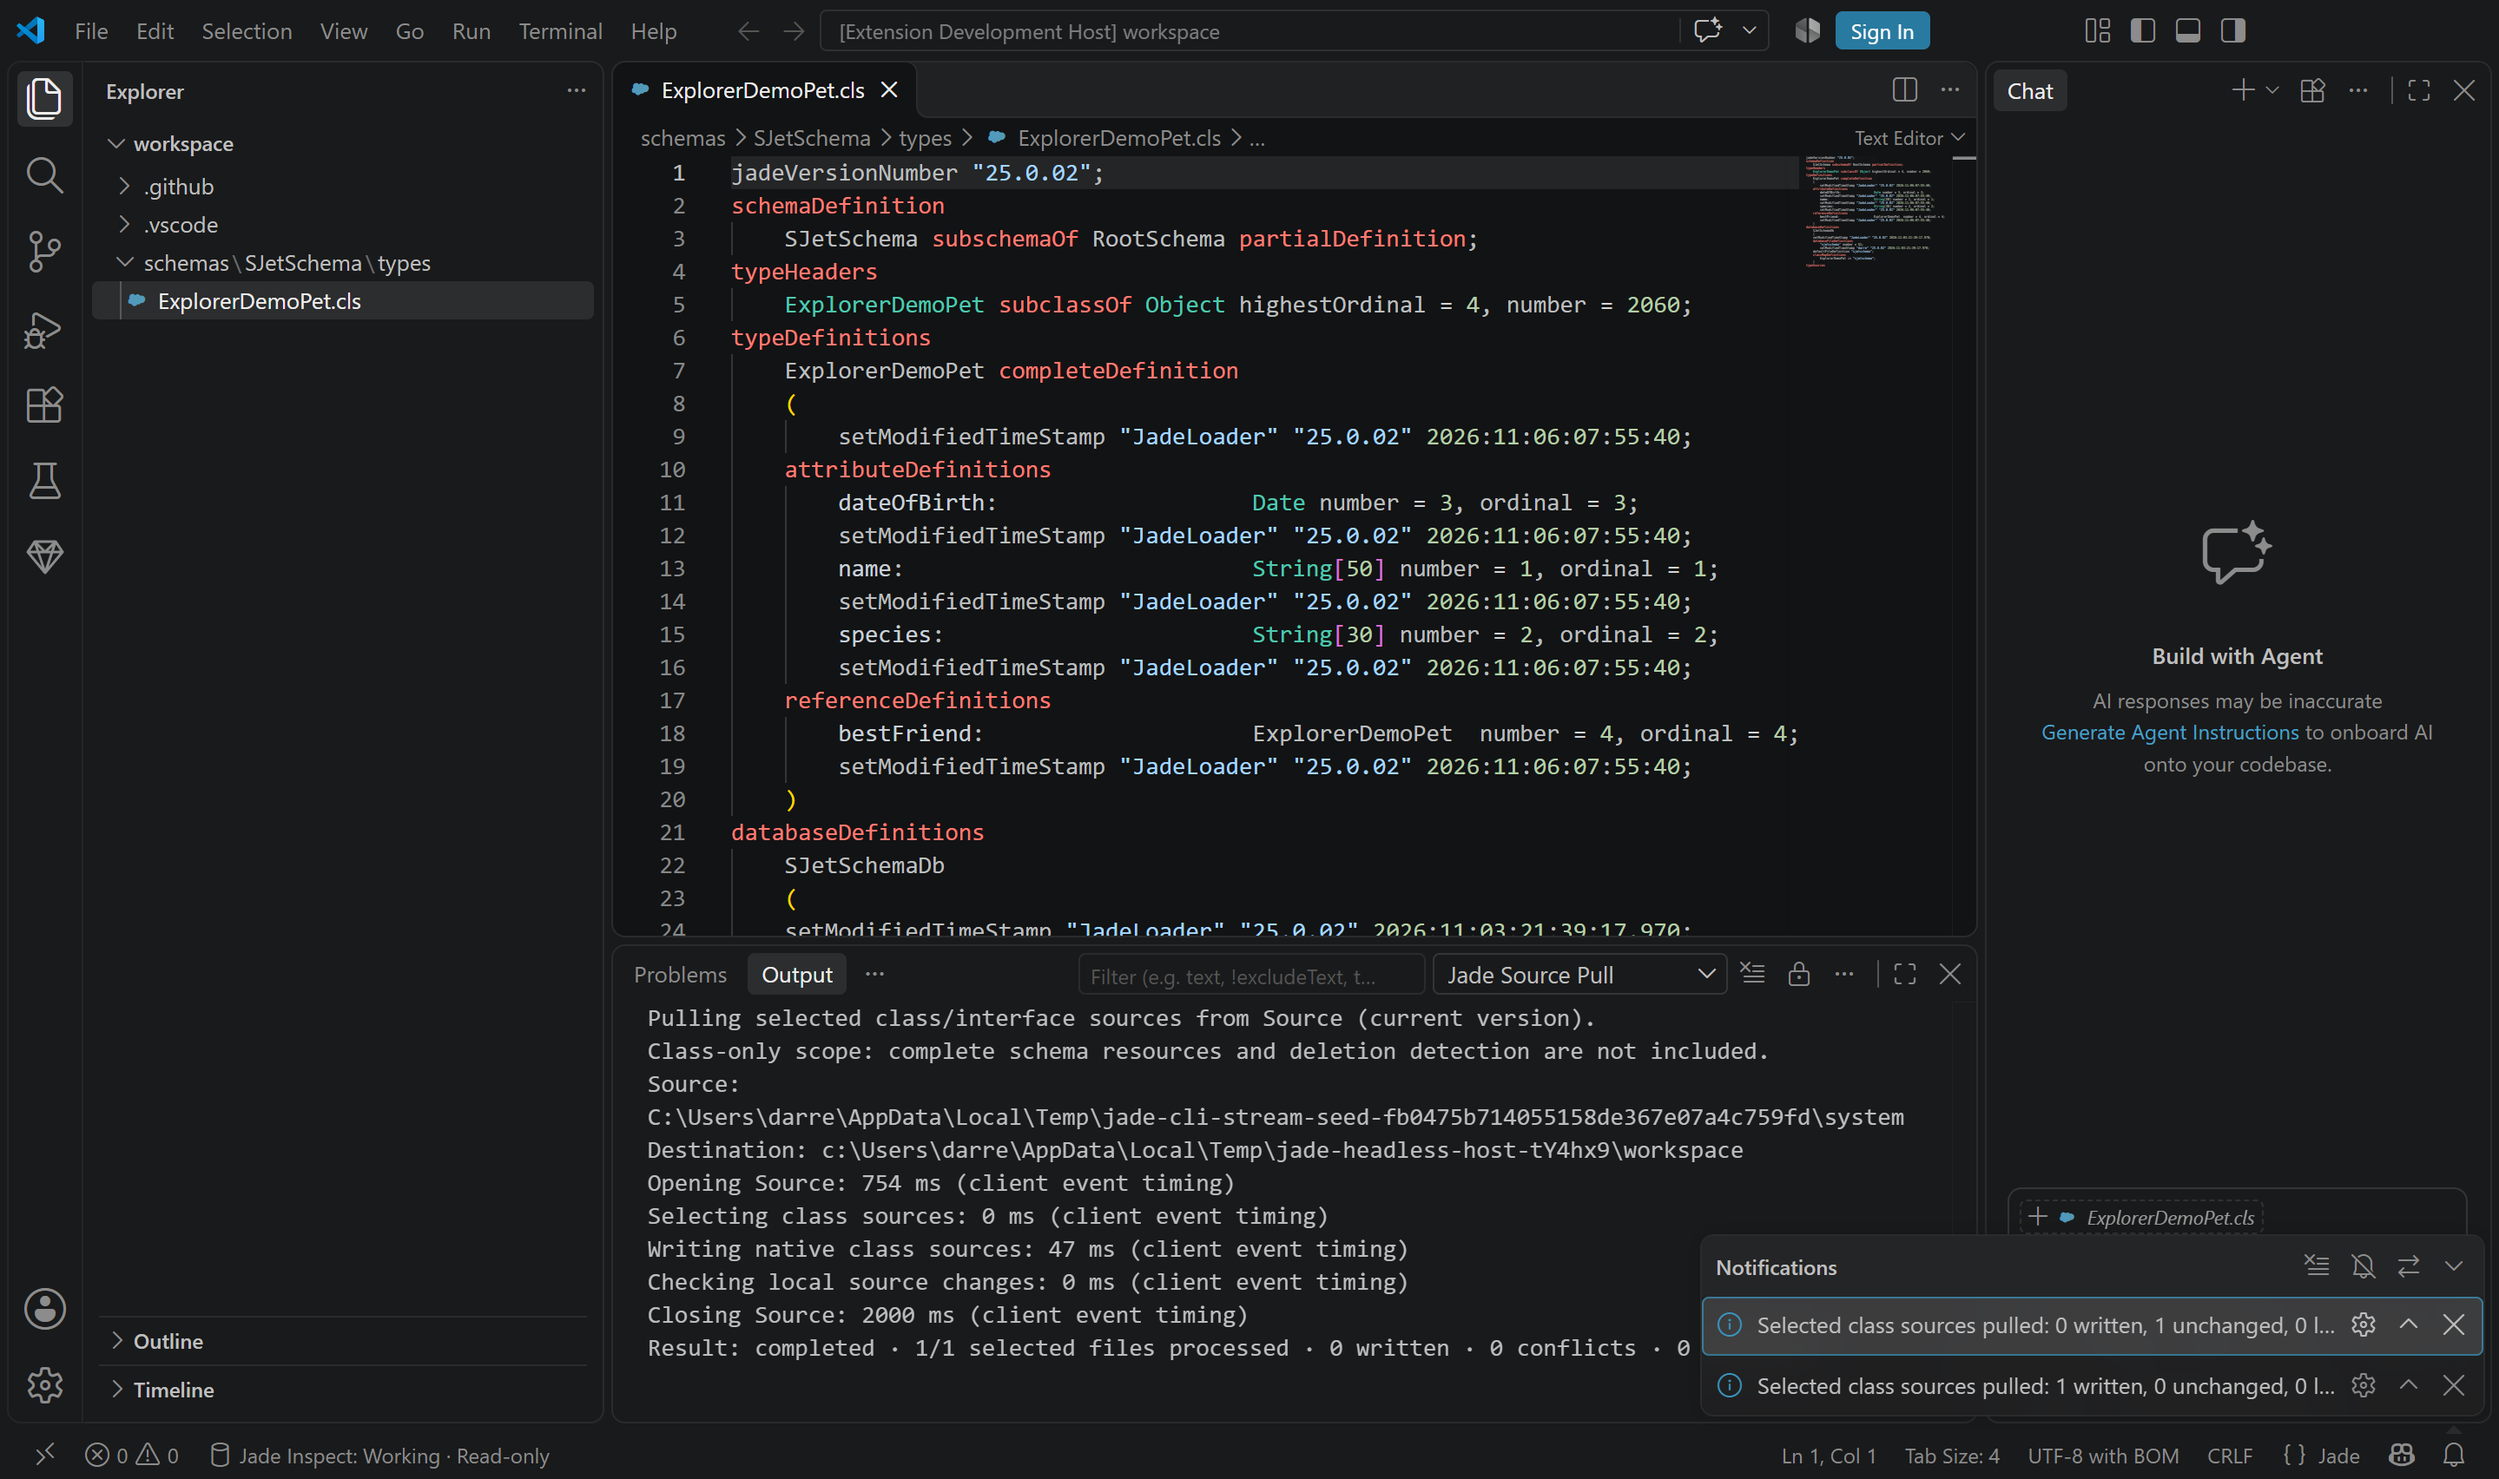
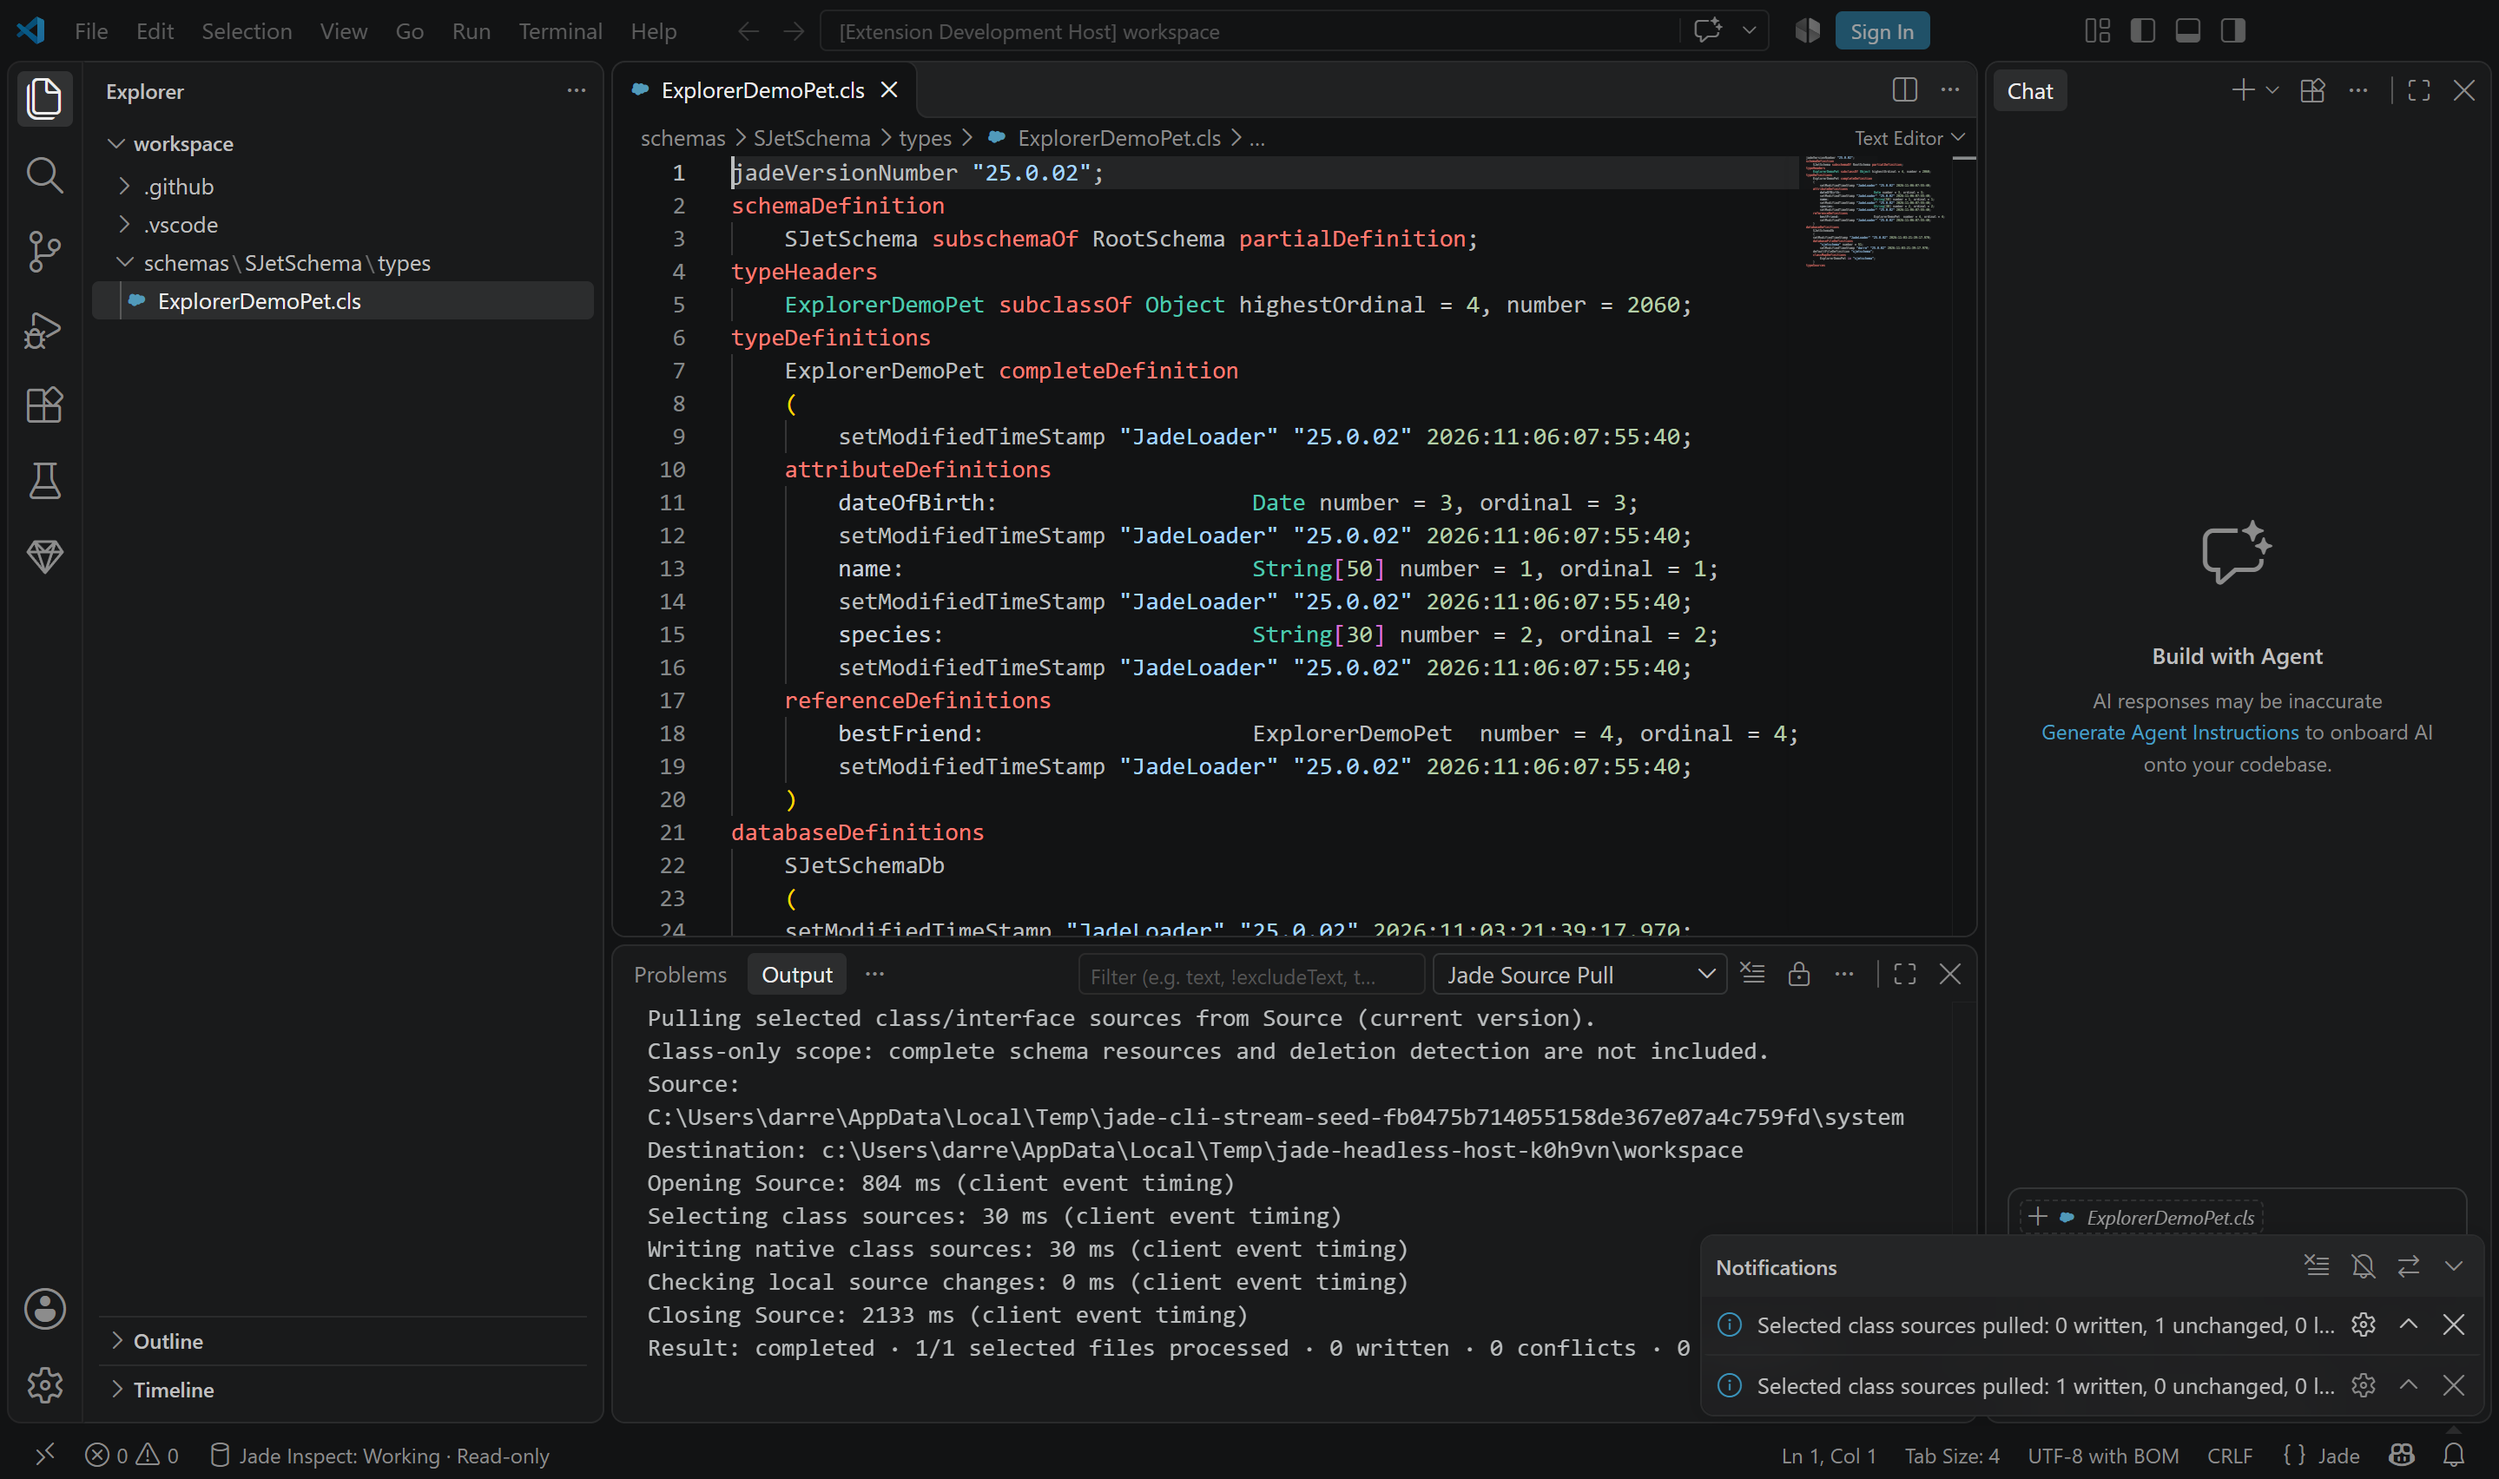
Verify official bundled VSIX in actual native Code host
Registered class/Form source pull and real dirty CLS/DDX protections pass with the official0.7.0 manifest and runtime bytes. Full default1093passed/44opt-in skipped plus18PowerShell passed; portable VSIX and release checks pass. No user installation.

diff --git a/tests/RuntimeCharacterSet/RuntimeCharacterSet_configuration_tests.test.js b/tests/RuntimeCharacterSet/RuntimeCharacterSet_configuration_tests.test.js
@@ -23,7 +23,8 @@ function activation(inspectionField='workspaceFolderValue',override){
 }
 test('character-set setting is optional, resource-scoped and defaults to automatic native detection',()=>{
  const setting=manifest.contributes.configuration.properties['jadeNative.characterSet'];assert.ok(setting);assert.deepEqual(setting.enum,['auto','ansi','unicode']);assert.equal(setting.default,'auto');assert.equal(setting.scope,'resource');
- assert.equal(manifest.jadeNative.minimumCliVersion,'0.6.0','Do not release the setting with a CLI that cannot safely select the native character ABI.');
+ const [major,minor]=manifest.jadeNative.minimumCliVersion.split('.').map(Number);assert.ok(major>0||major===0&&minor>=6,'Do not release the setting with a CLI older than the native character ABI support.');
+ require('../../scripts/NativeCompatibility.cjs').requireNativeVersion(path.join(root,'packages/jade-cli-win-x64'),manifest.jadeNative.minimumCliVersion);
 });
 for(const [index,expected] of ['ansi','unicode',undefined,'auto'].entries())test('actual activation resolves '+(expected||'omitted native default')+' for build, inspection, Scratch and debug configuration without writing settings',()=>{
  const host=activation(),folder=host.folders[index],document={uri:{scheme:'file',fsPath:folder.uri.fsPath+'/Pet.cls'},getText:()=> 'schemaDefinition\nPets subschemaOf RootSchema partialDefinition;'};

diff --git a/plans/native-streamed-source-pull.md b/plans/native-streamed-source-pull.md
@@ -19,3 +19,5 @@ Selected native Forms additionally own their exact same-stem DDX file. Each comp
[1 lines of base64/hex data omitted]
 
[1 lines of base64/hex data omitted]
+
[1 lines of base64/hex data omitted]
